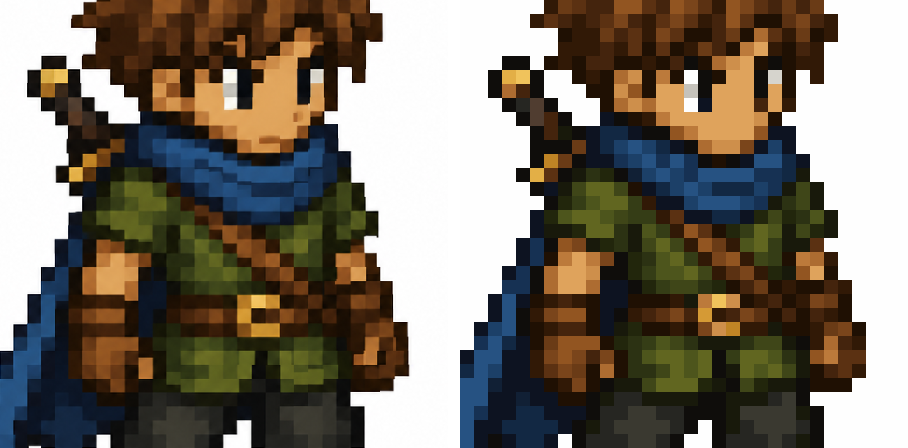
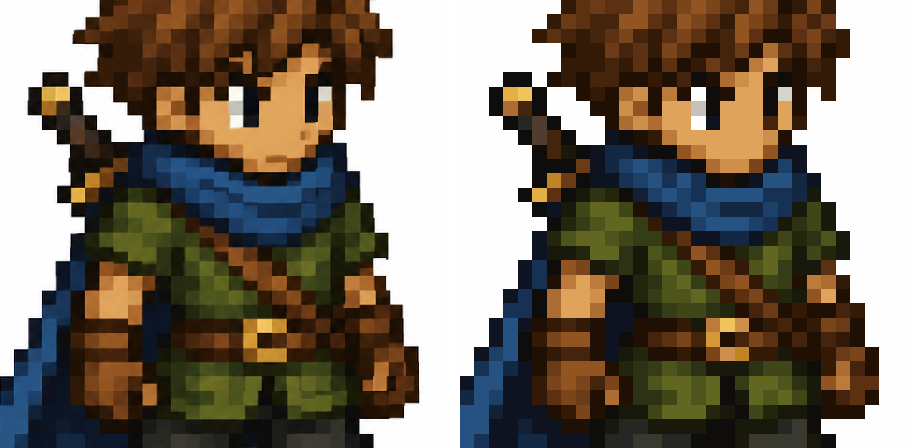
Weight grid-size selection by period agreement
Reconstruction residual alone drifts toward grids 1-3% finer than the
true cell count. Selection now minimizes residual scaled by agreement
with the measured cell period:

  residual * (1 + 2 * (dev_x + dev_y))

where dev is the relative distance of length/N from the nearest
autocorrelation/FFT period estimate. A sweep showed weights of 0.5-1.0
fixed only the small-cell case; 1.5-2.0 fixed both misses.

Fixes two off-by-one detections: ~5px cells resolved one cell too fine
(33 instead of 32), and a sparse sprite where 37 tied with the true 40.

examples/example-image.png now detects 62x64 instead of 64x64. The
sprite content is equivalent (same 31 sprite columns, 7 of 1029 cells
differ slightly); only flat white margin cells change. The README
before/after image is regenerated and its caption no longer states a
size; architecture limits, configuration tuning notes, and CHANGELOG
are updated.

The extended detection benchmark (tiny 4-6px cells, heavy blur,
non-square) improves from 50/54 to 54/54; tests grow from 87 to 91.

diff --git a/src/pixelperfect/score.py b/src/pixelperfect/score.py
@@ -29,6 +29,8 @@ from .grid import (
     GridResult,
     _smooth,
     _snap_common,
+    autocorr_period,
+    fft_period,
     fit_gridlines,
     gradient_profiles,
     periodicity,
@@ -132,6 +134,11 @@ def reconstruction_residual(
 _MID_EDGE_RATIO = 0.125
 _SUBHARMONIC_GAIN = 0.9
 
+# Residual multiplier per unit relative deviation of a candidate's cell size from
+# the measured period (summed over both axes). A 3% mismatch costs 6% — more
+# than the 1-3% a needlessly fine grid gains, far less than a real improvement.
+_PERIOD_PENALTY = 2.0
+
 
 def _mid_edge_ratio(profile: np.ndarray, bounds: np.ndarray) -> float:
     """Mean edge energy at cell midpoints relative to the fitted gridlines.
@@ -219,11 +226,28 @@ def _refine_subharmonic(
     return best
 
 
-def _pick(scored: list[GridScore]) -> GridScore:
-    """Min residual within a small relative tolerance; then coarser, common, fewer."""
-    best_res = min(s.residual for s in scored)
+def _period_estimates(profile: np.ndarray) -> list[float]:
+    """Finite period estimates for an axis (autocorrelation and FFT)."""
+    return [p for p in (autocorr_period(profile), fft_period(profile)) if np.isfinite(p) and p > 0]
+
+
+def _period_deviation(length: int, n: int, estimates: list[float]) -> float:
+    """Relative distance from ``length / n`` to the nearest measured period."""
+    if not estimates:
+        return 0.0
+    cell = length / n
+    return min(abs(cell - p) / p for p in estimates)
+
+
+def _pick(scored: list[GridScore], key=None) -> GridScore:
+    """Min score within a small relative tolerance; then coarser, common, fewer.
+
+    ``key`` maps a candidate to the value being minimized (default: residual).
+    """
+    key = key or (lambda s: s.residual)
+    best_res = min(key(s) for s in scored)
     tol = best_res * 0.02 + 1e-4
-    ok = [s for s in scored if s.residual <= best_res + tol]
+    ok = [s for s in scored if key(s) <= best_res + tol]
     # An exact subdivision of a tied grid explains the image equally well by
     # construction (its interiors never straddle a true edge); prefer the coarser.
     ok = [s for s in ok if not any(_is_subdivision(s, t) for t in ok)]
@@ -232,7 +256,7 @@ def _pick(scored: list[GridScore]) -> GridScore:
         common = -((s.grid.nx in COMMON_SIZES) + (s.grid.ny in COMMON_SIZES))
         return (common, s.grid.nx + s.grid.ny)
 
-    ok.sort(key=lambda s: (tiebreak(s), s.residual))
+    ok.sort(key=lambda s: (tiebreak(s), key(s)))
     return ok[0]
 
 
@@ -277,7 +301,11 @@ def select_grid(
     x_fits = {nx: fit_gridlines(prof_x, nx, w, **fit_kwargs) for nx in xs}
     y_fits = {ny: fit_gridlines(prof_y, ny, h, **fit_kwargs) for ny in ys}
 
+    est_x = _period_estimates(prof_x)
+    est_y = _period_estimates(prof_y)
+
     scored: list[GridScore] = []
+    adjusted: dict[int, float] = {}
     for nx in xs:
         for ny in ys:
             grid = GridResult(x_fits[nx], y_fits[ny], int(nx), int(ny), w / nx, h / ny)
@@ -286,7 +314,10 @@ def select_grid(
                 arr, grid, field, interior_frac=interior_frac, src_lab=lab
             )
             conf = float(np.clip(1.0 - residual / _RESIDUAL_BAD, 0.0, 1.0))
-            scored.append(GridScore(grid, field, residual, per_cell, conf, fallback=fallback))
+            s = GridScore(grid, field, residual, per_cell, conf, fallback=fallback)
+            scored.append(s)
+            dev = _period_deviation(w, nx, est_x) + _period_deviation(h, ny, est_y)
+            adjusted[id(s)] = residual * (1.0 + _PERIOD_PENALTY * dev)
 
     # The candidate set is kept tight around the autocorrelation period
     # estimate, so the true N shows up as the minimum-residual local elbow
@@ -295,7 +326,13 @@ def select_grid(
     # only a tiny *relative* tolerance (plus a noise-level floor) to break
     # near-exact ties. An absolute floor comparable to a clean image's residual
     # would let a clearly worse grid count as "tied".
-    chosen = _pick(scored)
+    #
+    # Selection uses the residual scaled by how far each candidate's implied
+    # cell size (length / N) is from the measured period. Residual alone still
+    # drifts toward finer grids by a percent or two, which is enough to pick
+    # N+1 on very small cells (5px: 33 over 32) and to make an off-by-three
+    # count "tie" on sparse sprites; the measured period is precise in both.
+    chosen = _pick(scored, key=lambda s: adjusted[id(s)])
     if not fallback:
         chosen = _refine_subharmonic(
             arr,

diff --git a/tests/test_hardening.py b/tests/test_hardening.py
@@ -118,6 +118,26 @@ def test_sparse_line_art_not_detected_at_half_resolution(thin, seed):
     assert thin_metrics(gt, res.native)["exact"] > 0.97
 
 
+@pytest.mark.parametrize("seed", [0, 1, 2])
+def test_very_small_cells_not_detected_one_finer(synth, seed):
+    """5px cells: a grid one cell finer fits ~1.5% better per axis; don't take it."""
+    _, distort = synth
+    native = make_native(seed, 32, 32, 8)
+    img = distort(native, seed=seed, avg_cell=5, drift=0.05, blur=0.6, jpeg=90)
+    res = restore(img, PipelineParams())
+    assert (res.nx, res.ny) == (32, 32)
+
+
+def test_sparse_sprite_off_by_three_tie_resolved_by_period(thin):
+    """37 and 40 cells explain a sparse sprite equally well; the period says 40."""
+    make_thin_sprite, distort, thin_metrics, _ = thin
+    gt = make_thin_sprite(40, 40)
+    img = distort(gt, seed=2, avg_cell=16, drift=0.08, blur=0.8, jpeg=88)
+    res = restore(img, PipelineParams())
+    assert (res.nx, res.ny) == (40, 40)
+    assert thin_metrics(gt, res.native)["exact"] > 0.97
+
+
 def test_thin_sprite_autodetect(thin):
     make_thin_sprite, distort, thin_metrics, _ = thin
     gt = make_thin_sprite(40, 40)

diff --git a/docs/architecture.md b/docs/architecture.md
@@ -103,10 +103,17 @@ per-cell residual doubles as a **confidence heatmap**. Scoring on the eroded
 interior also prevents the metric from preferring a needlessly fine grid. With
 alpha, a pixel whose opacity disagrees with its cell counts as a bad match.
 
-Selection takes the minimum residual with a small relative tolerance. Among
-tied grids, an exact subdivision of another tied grid is dropped (its interiors
-never straddle a true edge, so it can always tie), then common sizes and fewer
-cells win. The OKLab conversion, profiles, and each axis's gridline fits are
+Selection minimizes the residual **scaled by period agreement**: each
+candidate's residual is multiplied by `1 + 2 × (dev_x + dev_y)`, where `dev` is
+the relative distance from its implied cell size (`length / N`) to the nearest
+measured period. Residual alone still drifts toward finer grids by a percent or
+two — enough to pick 33 over 32 on 5 px cells, or let 37 "tie" with 40 on a
+sparse sprite — while the measured period is precise in both cases. A 3%
+mismatch costs 6%, more than a needlessly fine grid gains and far less than a
+real improvement. Scores within a small relative tolerance of the best are
+tied. Among tied grids, an exact subdivision of another tied grid is dropped
+(its interiors never straddle a true edge, so it can always tie), then common
+sizes and fewer cells win. The OKLab conversion, profiles, and each axis's gridline fits are
 computed once per image and shared across all candidate combinations.
 
 **Half-resolution check.** Sparse line art (1 px lines on a mostly empty
@@ -149,10 +156,11 @@ AI output and produce a guaranteed-clean result.
 - Extreme drift (cells varying more than `fit_window_frac`, 35% by default) plus
   heavy blur can land `N` off by one; the
   [manual override](how-to/fix-hard-cases.md) fixes this in one click.
-- **Off-by-one on sparse or very small cells.** Where most cells are flat
-  background, or cells are only ~5 px, a grid one cell larger or smaller can
-  explain the image equally well, and detection can land on it (e.g. 37 instead
-  of 40). Force `native_w`/`native_h` to fix it.
+- **Flat margins have no true cell count.** A sprite on a wide empty background
+  can come out with a cell or two more or fewer *margin* cells on one axis (for
+  example 62×64 rather than 64×64) — the sprite's own cells are identical either
+  way, since nothing in a flat margin shows where cells begin. Force
+  `native_w`/`native_h` if you need an exact canvas size.
 - There is no unique "true" image to recover from a badly blurred generation —
   geometry can always be made perfect, but fidelity to intent cannot. The
   confidence score tells you when to re-roll the generation instead.

diff --git a/docs/reference/configuration.md b/docs/reference/configuration.md
@@ -59,7 +59,7 @@ image.
 | Symptom | Try |
 |---------|-----|
 | Wrong grid size detected (often with low `grid_confidence`) | Set `native_w`/`native_h` explicitly. |
-| Size off by one on sparse line art or very small (~5 px) cells | Force `native_w`/`native_h`. |
+| Canvas a cell or two off on a sprite with wide empty margins (the sprite itself is correct) | Force `native_w`/`native_h` for an exact canvas size. |
 | Colors look washed out | Lower `interior_frac` (e.g. 0.35) to avoid AA bleed. |
 | Too many near-duplicate colors | Set `palette_size`, or raise `merge_threshold`. |
 | Grid wobbles on a clean image | Raise `fit_smoothness`. |

diff --git a/README.md b/README.md
@@ -8,7 +8,7 @@ Turn AI-generated "pixel art" — which only *looks* like pixel art — into a *
 
 ![Before: blurry, drifting AI output. After: crisp pixel-perfect restoration](docs/images/before-after.png)
 
-<sub>Left: a detail of an AI-generated sprite (`examples/example-image.png`). Right: the same region of the restored 64×64 native image, nearest-neighbor upscaled for viewing.</sub>
+<sub>Left: a detail of an AI-generated sprite (`examples/example-image.png`). Right: the same region of the restored native image, nearest-neighbor upscaled for viewing.</sub>
 
 ## Table of Contents
 

diff --git a/CHANGELOG.md b/CHANGELOG.md
@@ -6,6 +6,14 @@ All notable changes to this project are documented here. The format is based on
 
 ## [Unreleased]
 
+### Fixed
+- Grid-size selection now weighs agreement with the measured cell period, fixing
+  two off-by-one cases: very small (~5 px) cells detected one cell too fine
+  (33 instead of 32), and sparse sprites where a smaller count tied with the
+  true one (37 instead of 40). On sprites with wide empty margins, the number of
+  margin cells may differ by one or two from 0.1.0; the sprite's cells are
+  unchanged.
+
 ## [0.1.0] — 2026-09-14
 
 Initial public release.
